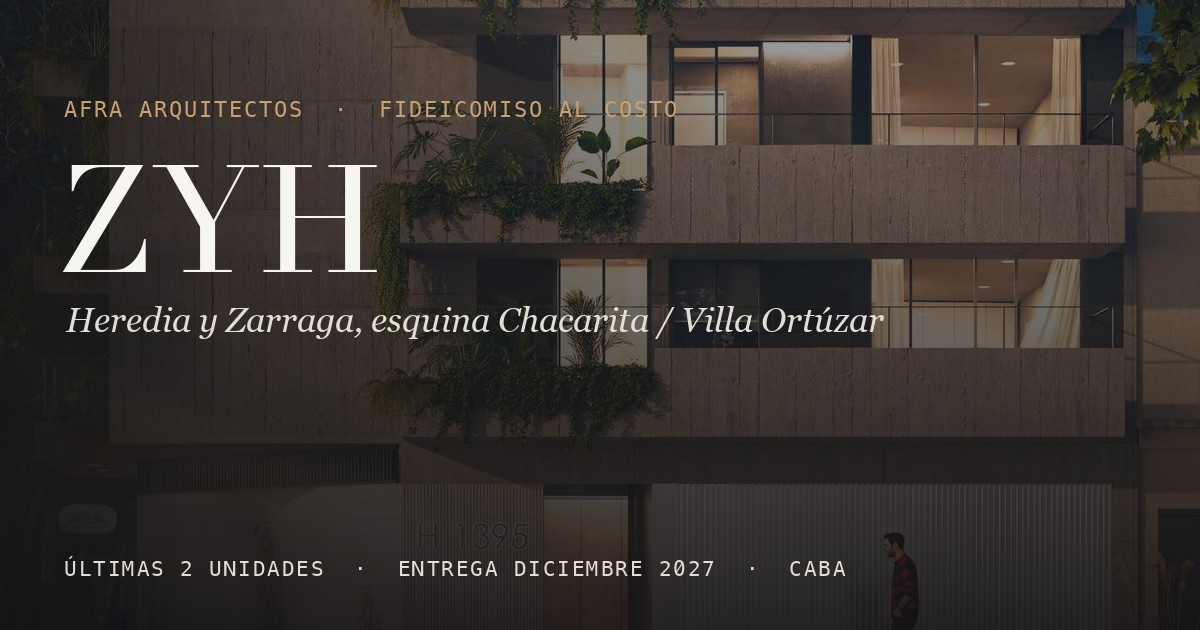
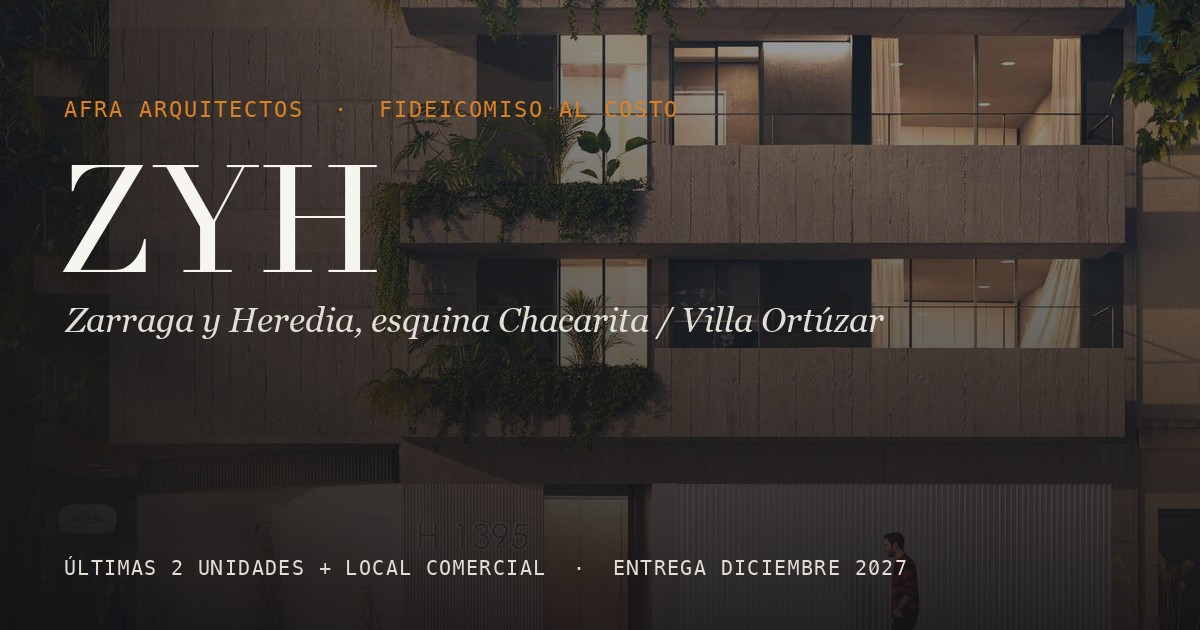
Actualizar la imagen de Open Graph (preview al compartir el link)
Estaba desactualizada en 3 cosas: decía "Heredia y Zarraga" (orden
viejo, ya corregido en el resto del sitio en V18), no mencionaba el
local comercial (agregado en V25), y usaba el acento --wood viejo en
vez del --wood-vivid más saturado del badge actual.

Se regenera con el mismo pipeline de PIL de la sesión original,
ahora con "Zarraga y Heredia", el acento actualizado, y la línea
inferior "Últimas 2 unidades + local comercial · Entrega diciembre
2027".

No se deployea, queda commiteado.

diff --git a/BITACORA.md b/BITACORA.md
@@ -1172,6 +1172,41 @@ locales) es la correcta para Argentina — viene tal cual del HTML de
 referencia que trajo el usuario en la reescritura V3, nunca se
 confirmó que sea el número real correcto dígito por dígito.
 
+### V30 — imagen de Open Graph desactualizada, regenerada
+El usuario pidió actualizar la imagen que se ve al compartir el link
+(la tarjeta de WhatsApp/redes) para que muestre el mensaje de "2
+unidades" actual. Al revisar `assets/og/og-image.jpg` (creada en la
+sesión de Open Graph, antes de varios cambios posteriores) tenía tres
+cosas desactualizadas:
+- Decía "Heredia y Zarraga" (orden viejo, corregido en V18 en el
+  resto del sitio pero esta imagen es un archivo estático, no se
+  actualiza sola).
+- No mencionaba el local comercial (agregado recién en V25).
+- El color del acento mono (`AFRA ARQUITECTOS · FIDEICOMISO AL
+  COSTO`) usaba el `--wood` viejo, no el `--wood-vivid` más saturado
+  que ahora se usa en el badge del hero (V22/V27).
+
+**Se regeneró con el mismo script de PIL de la sesión original**
+(mismo pipeline: crop + scrim + viñeta + Didot/Georgia
+Italic/Menlo), cambiando: el color del acento a `#DA8225`
+(`--wood-vivid` actual), el subtítulo a "Zarraga y Heredia...", y la
+línea inferior a "ÚLTIMAS 2 UNIDADES + LOCAL COMERCIAL · ENTREGA
+DICIEMBRE 2027" (antes decía "Últimas 2 unidades · Entrega diciembre
+2027 · CABA" — se sacó "CABA" para hacer lugar al local comercial sin
+que la línea se sienta apretada; se midió el ancho con
+`draw.textlength` antes de guardar para confirmar que entra: 844px
+de 1072px disponibles).
+
+**Recordatorio para el futuro**: `og-image.jpg` es un archivo
+estático generado una vez — cualquier cambio de texto/mensaje/branding
+en el sitio que también aparezca ahí (orden de marca, unidades
+disponibles, colores de acento) hay que replicarlo a mano
+regenerando esta imagen, no se actualiza sola. Vale la pena revisarla
+cada vez que cambie algo de lo que muestra: el wordmark, la
+dirección, o el mensaje de unidades/local comercial.
+
+No se deployea, queda commiteado localmente.
+
 ## Limitaciones del entorno (importante para no perder tiempo de nuevo)
 
 - **El auto-deploy de Vercel al pushear a `main` no es 100% confiable**: